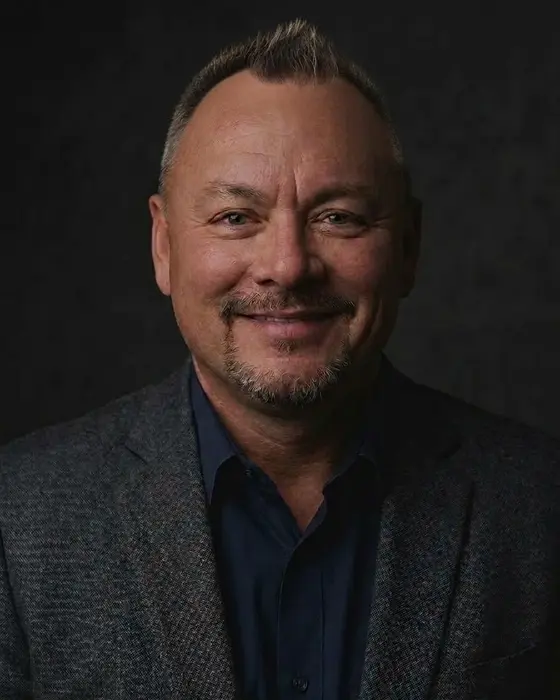
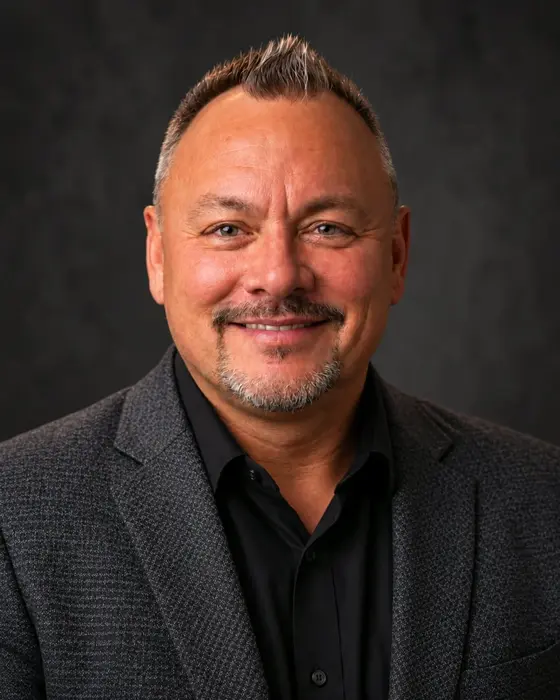
Update profile photo and link preview with new headshot
Claude-Session: https://claude.ai/code/session_01LULKfrfoqBWvdotWMRfoLK

diff --git a/index.html b/index.html
@@ -131,7 +131,7 @@
         <div class="agent-photo">
           <picture>
             <source srcset="assets/nate.webp" type="image/webp">
-            <img src="assets/nate.jpg" alt="Nate Hall, smiling, in a charcoal blazer and navy shirt" width="560" height="700" fetchpriority="high">
+            <img src="assets/nate.jpg" alt="Nate Hall, smiling, in a charcoal blazer and black shirt" width="560" height="700" fetchpriority="high">
           </picture>
         </div>
         <div class="agent-info">
